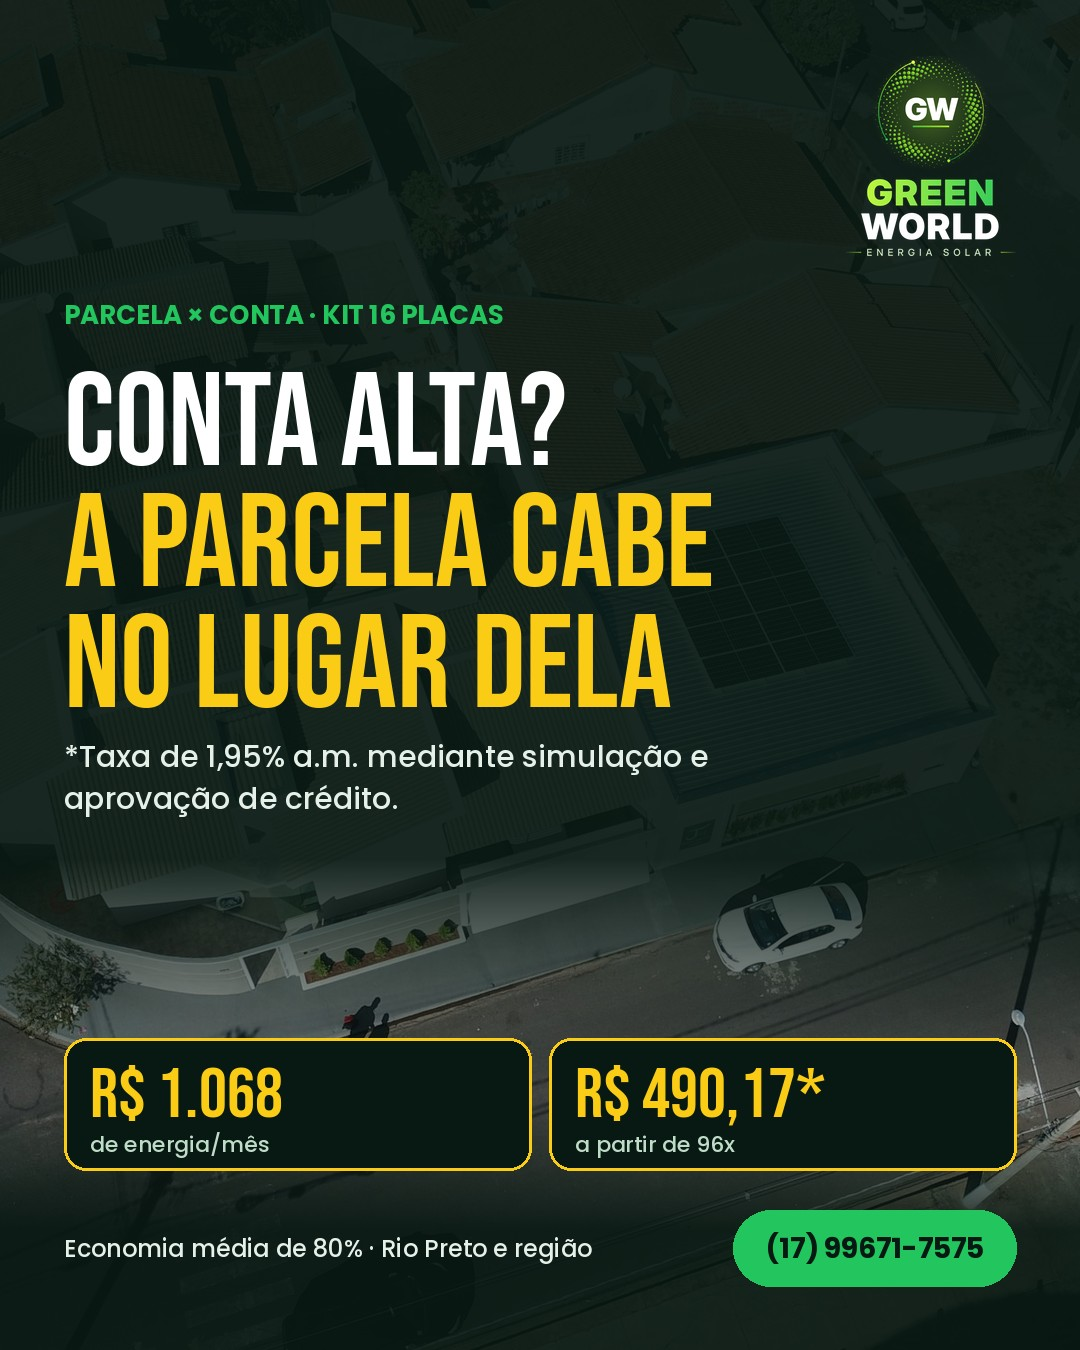
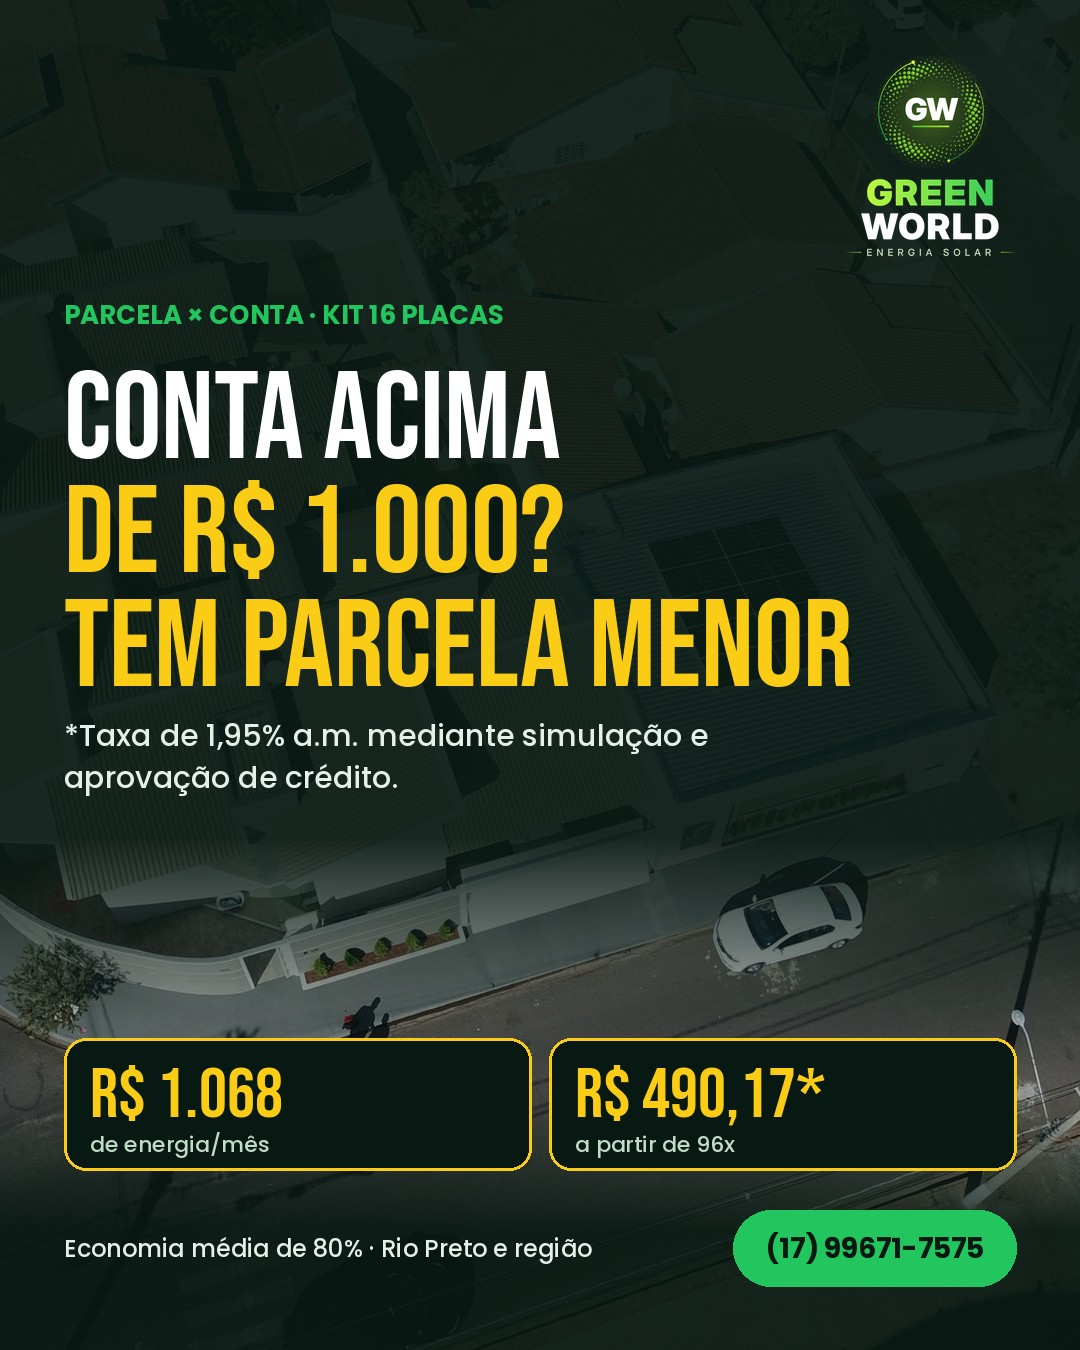
Foco em conta acima de R$400: ajusta posts 23 e 30/10 e regra
Claude-Session: https://claude.ai/code/session_01D5ZQK6a8hcQQRchwaRhvb5

Changed region(s): [[0.0611, 0.2489, 0.7944, 0.6222]]

diff --git a/INSTRUCOES.md b/INSTRUCOES.md
@@ -43,6 +43,7 @@ Abrir as duas imagens geradas e conferir: texto legível, nada cortado, logo vis
 Ferramenta de criação: Claude Design (o Maicon não usa mais Canva); Reels são editados pelo Claude a partir dos vídeos que ele mandar.
 
 ## Regras fixas (do Maicon)
+- PÚBLICO-ALVO (decisão do Maicon em 13/10): quem paga ACIMA DE R$ 400 de conta de luz, em Rio Preto e região. Ganchos e números devem falar com esse público ("Sua conta passa de R$ 400?", kits de 8 placas para cima). Evitar conteúdo que atraia conta baixa.
 - Economia prometida: "média de 80%" na conta (nunca "até 95%").
 - Geração: SEMPRE 75 kWh/mês por placa. Tarifa CPFL: R$ 0,89/kWh. Economia = placas × 75 × 0,89 (o arte.py já faz).
 - WhatsApp: (17) 99671-7575 (nunca o antigo 3363-5028). Rio Preto e região. 7 anos de mercado.
